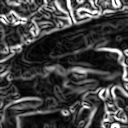
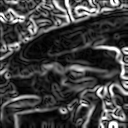
answer_41 ガウシアンフィルタ処理を関数化

diff --git a/Answer_41_50/answer_41.go b/Answer_41_50/answer_41.go
@@ -14,6 +14,72 @@ func gaussian(x, y int, sigma float64) float64 {
 	return g
 }
 
+func createGaussianMatrix(width, height int, σ float64) [][]float64 {
+	// ガウシアンフィルタを定義式から計算
+	sum := 0.0
+	gaussianMatrix := make([][]float64, height)
+	for i := range gaussianMatrix {
+		gaussianMatrix[i] = make([]float64, width)
+	}
+
+	for y := 0; y < height; y++ {
+		for x := 0; x < width; x++ {
+			// 行列の中央を原点とした座標系に変換する
+			gx := x - width/2
+			gy := y - height/2
+			g := gaussian(gx, gy, σ)
+			sum += g
+			gaussianMatrix[y][x] = g
+		}
+	}
+
+	for y := 0; y < height; y++ {
+		for x := 0; x < width; x++ {
+			gaussianMatrix[y][x] /= sum
+		}
+	}
+	return gaussianMatrix
+}
+
+func applyGaussianFilter(grayArray, gaussianMatrix [][]float64) [][]float64 {
+	height := len(grayArray)
+	width := len(grayArray[0])
+	filteredArray := make([][]float64, height)
+	for i := range filteredArray {
+		filteredArray[i] = make([]float64, width)
+	}
+
+	gHeight := len(gaussianMatrix)
+	gWidth := len(gaussianMatrix[0])
+
+	for y := 0; y < height; y++ {
+		for x := 0; x < width; x++ {
+			filteredValue := 0.0
+			for gY := 0; gY < gHeight; gY++ {
+				for gX := 0; gX < gWidth; gX++ {
+					refX := gX + x
+					refY := gY + y
+					if refX < 0 {
+						refX = 0
+					}
+					if refY < 0 {
+						refY = 0
+					}
+					if refX >= width {
+						refX = width - 1
+					}
+					if refY >= height {
+						refY = height - 1
+					}
+					filteredValue += gaussianMatrix[gY][gX] * grayArray[refY][refX]
+				}
+			}
+			filteredArray[y][x] = filteredValue
+		}
+	}
+	return filteredArray
+}
+
 func main() {
 	file, err := os.Open("./../assets/imori.jpg")
 	defer file.Close()
@@ -55,57 +121,11 @@ func main() {
 	// ガウシアンフィルタを定義式から計算
 	gH, gW := 5, 5
 	sigma := 1.4
-	gaussianMatrix := make([][]float64, gH)
-	for x := range gaussianMatrix {
-		gaussianMatrix[x] = make([]float64, gW)
-	}
+	gaussianMatrix := createGaussianMatrix(gH, gW, sigma)
 
-	sum := 0.0
-	for y, row := range gaussianMatrix {
-		for x := range row {
-			gy := y - gH/2
-			gx := x - gW/2
-			gaussianMatrix[y][x] = gaussian(gx, gy, sigma)
-			sum += gaussianMatrix[y][x]
-		}
-	}
+	grayGaussianArray := applyGaussianFilter(grayArray, gaussianMatrix)
 
-	for y, row := range gaussianMatrix {
-		for x := range row {
-			gaussianMatrix[y][x] /= sum
-		}
-	}
-
-	grayGaussianImage := image.NewGray(jpegImage.Bounds())
-	grayGaussianArray := make([][]float64, H)
-	for x := range grayGaussianArray {
-		grayGaussianArray[x] = make([]float64, W)
-	}
-
-	for y := 0; y < H; y++ {
-		for x := 0; x < H; x++ {
-			filterValue := 0.0
-			for gy := 0; gy < gH; gy++ {
-				for gx := 0; gx < gW; gx++ {
-					refY := y + gy - gH/2
-					refX := x + gx - gW/2
-					gaussianElm := gaussianMatrix[gy][gx]
-					if refX < 0 && refY < 0 || refX >= W && refY >= H || refX < 0 && refY >= H || refX >= W && refY < 0 {
-						filterValue += gaussianElm * grayArray[y][x]
-					} else if refY < 0 || refY >= H {
-						filterValue += gaussianElm * grayArray[y][refX]
-					} else if refX < 0 || refX >= W {
-						filterValue += gaussianElm * grayArray[refY][x]
-					} else {
-						filterValue += gaussianElm * grayArray[refY][refX]
-					}
-				}
-			}
-			grayGaussianArray[y][x] = filterValue
-			grayGaussianImage.Set(x, y, color.Gray{uint8(filterValue)})
-		}
-	}
-
+	// grayGaussianImage := image.NewGray(jpegImage.Bounds())
 	// grayGaussianFile, err := os.Create("./answer_41_gray_gau.jpg")
 	// defer grayGaussianFile.Close()
 	// if err != nil {
